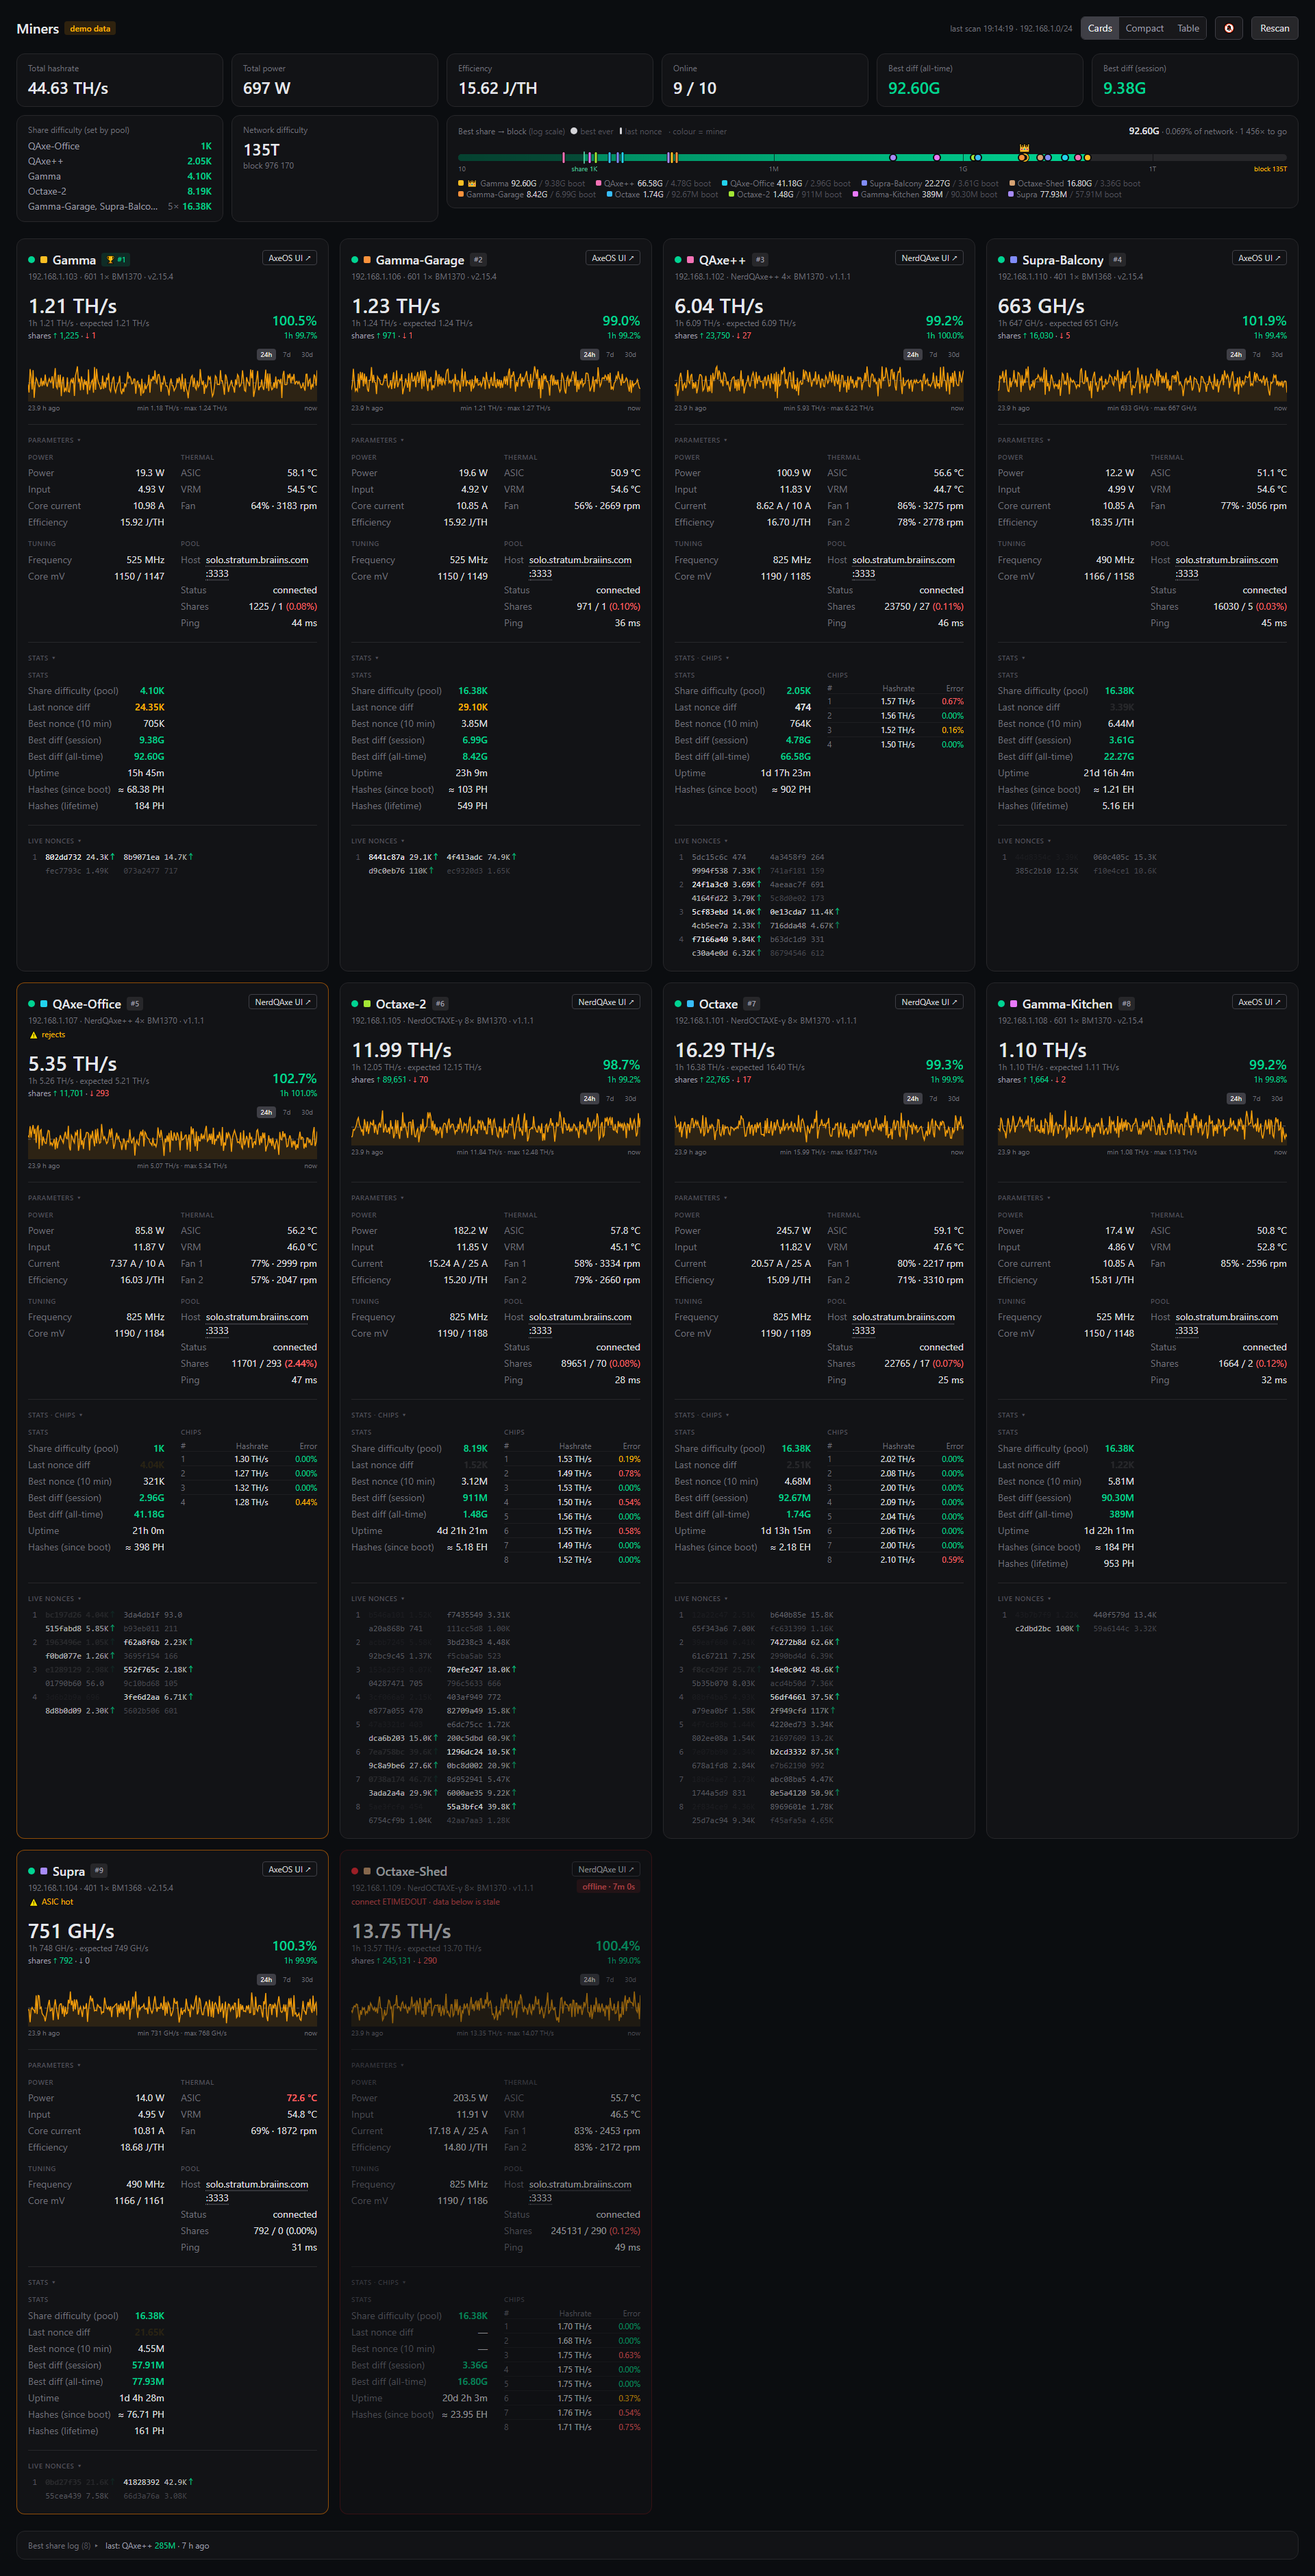
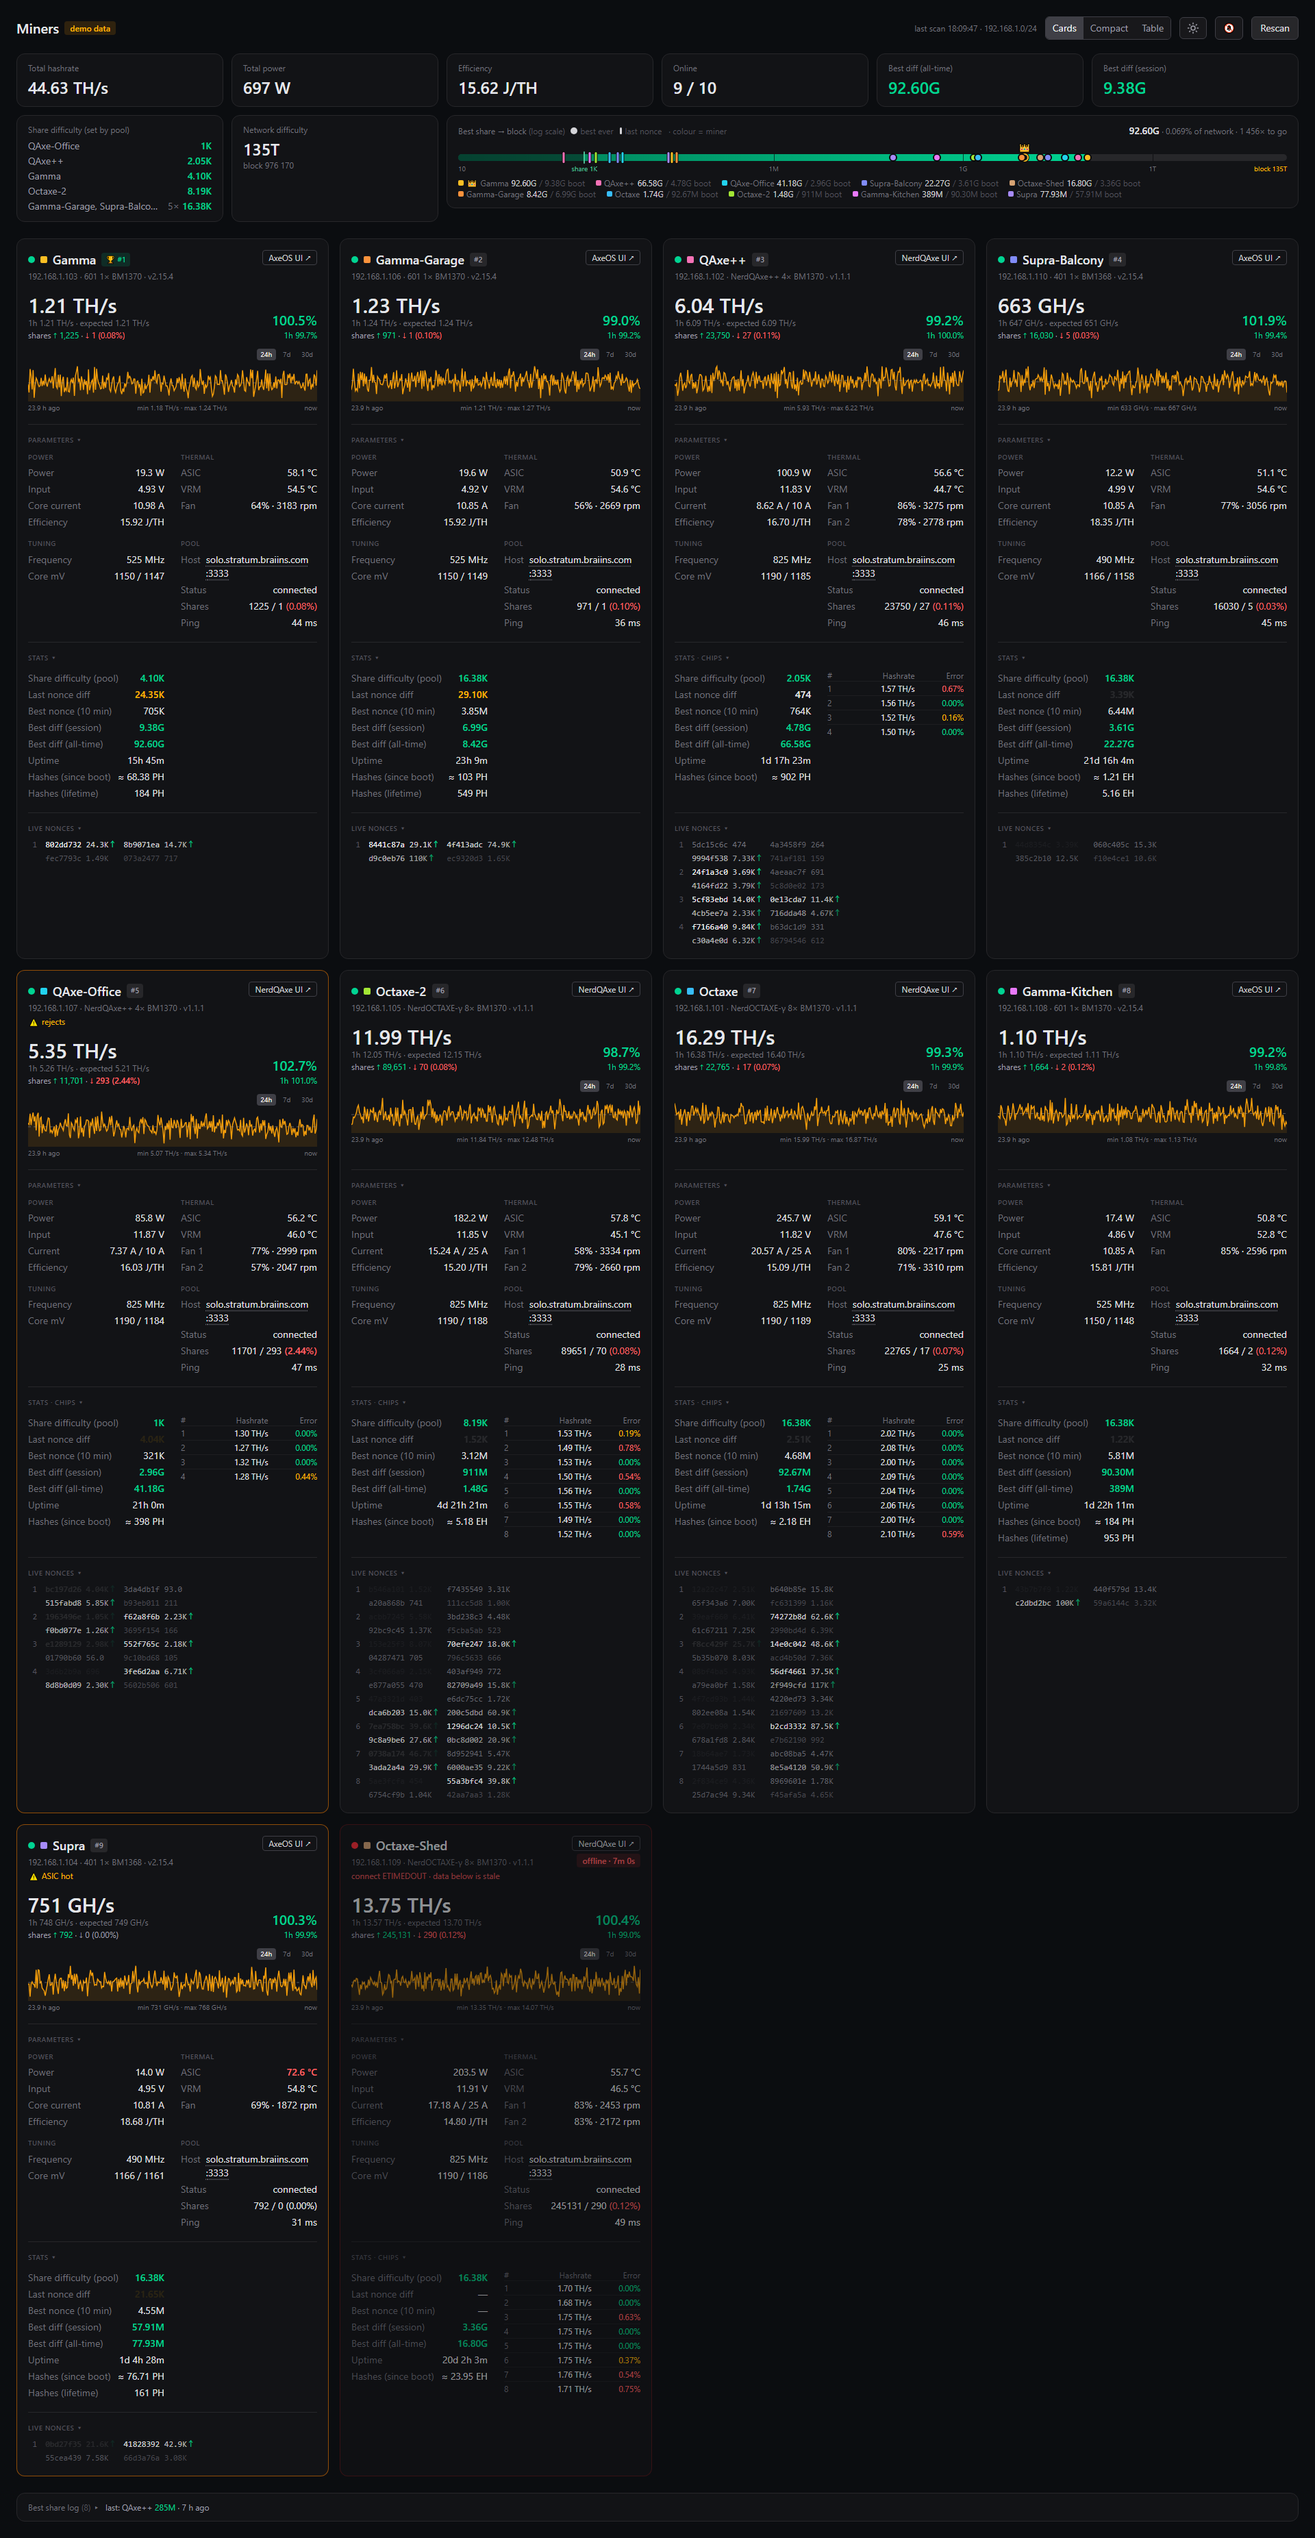
Reject percentage on the card's shares line; README screenshots updated
- shares ↑ accepted · ↓ rejected (x.xx%), bold above the reject threshold, like the Pool block
- docs/*.png retaken (dark theme, demo mode) with the theme switch in the header

diff --git a/components/MinerCard.tsx b/components/MinerCard.tsx
@@ -273,10 +273,12 @@ export function MinerCard({ m, now, feed, onCollapse, rank, flash, color, alignR
           <div className="text-xs text-zinc-500">
             1h {fmtHash(s.hashRate1h)} · expected {fmtHash(s.expectedHashRate)}
           </div>
-          <div className="mt-0.5 text-xs tabular-nums text-zinc-400" title="shares since boot: accepted / rejected">
+          <div className="mt-0.5 text-xs tabular-nums text-zinc-400" title="shares since boot: accepted · rejected (% of all shares)">
             shares <span className="text-emerald-400">↑ {s.pool.accepted.toLocaleString("en-US")}</span>
             {" · "}
-            <span className={s.pool.rejected > 0 ? "text-red-400" : "text-zinc-400"}>↓ {s.pool.rejected.toLocaleString("en-US")}</span>
+            <span className={s.pool.rejected > 0 ? `text-red-400 ${rejPct > REJECT_PCT_MAX ? "font-semibold" : ""}` : "text-zinc-400"}>
+              ↓ {s.pool.rejected.toLocaleString("en-US")} ({rejPct.toFixed(2)}%)
+            </span>
           </div>
         </div>
         <div className="text-right tabular-nums">
